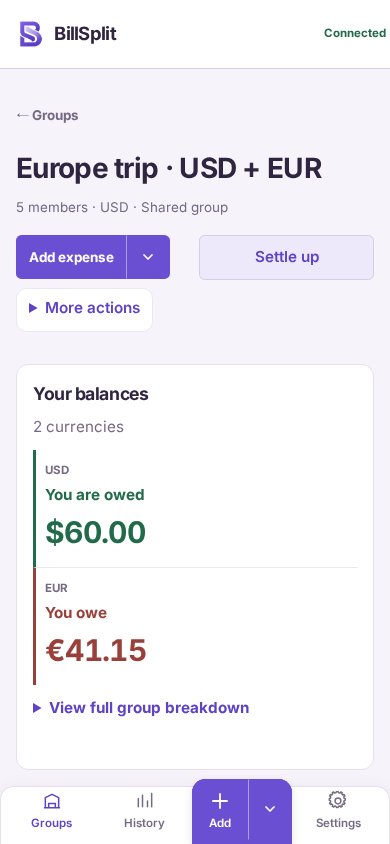
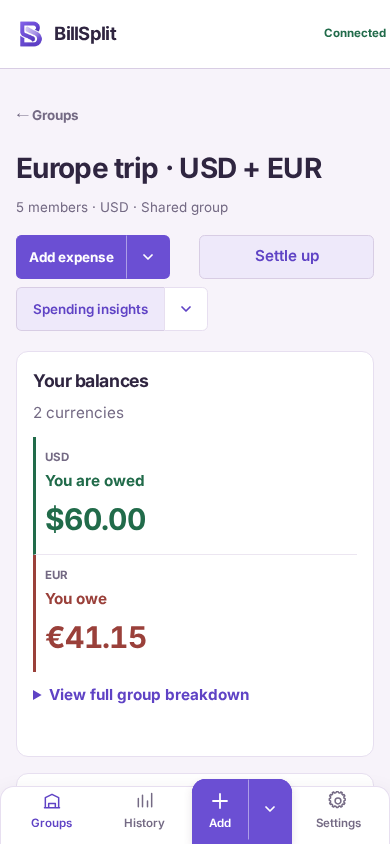
Align group actions and default to spending insights

diff --git a/tests/e2e/insight-people.spec.ts b/tests/e2e/insight-people.spec.ts
@@ -5,27 +5,60 @@ const path = `/activity?group=${groupId}&view=insights&period=all&currency=USD`;
 const person = (personId: string, name: string, shareMinor: number, paidMinor: number) => ({ personId, name, shareMinor, paidMinor });
 const summary = (currency: string, people?: ReturnType<typeof person>[]) => ({ currency, groupSpendMinor: 1000, allocatedSpendMinor: 200, yourShareMinor: 200, youPaidMinor: 600, expenseCount: 1, ...(people ? { people } : {}) });
 
-test('top More actions is button-like, in-flow and follows frequent actions at every audit width', async ({ authenticatedPage: page }) => {
+test('Spending insights split actions stay aligned and in-flow at every audit width', async ({ authenticatedPage: page }) => {
   await page.goto(`/groups/${groupId}`);
   const tools = page.locator('.group-overview-tools');
+  await expect(tools).toHaveAttribute('data-flow-region', 'admin');
+  await expect(tools.locator('summary')).toHaveAccessibleName('More group actions');
+  const insights = page.getByRole('link', { name: 'Spending insights', exact: true });
+  await expect(insights).toHaveAttribute('href', `/activity?group=${groupId}&view=insights&period=all`);
+  const positions = () => page.evaluate(() => {
+    const box = (selector: string) => { const r = document.querySelector(selector)!.getBoundingClientRect(); return { top: r.top, height: r.height, width: r.width, left: r.left, right: r.right }; };
+    return { title: box('.group-overview-header h1'), add: box('.group-overview-header .split-transaction-control'), addMenu: box('.group-overview-header .split-transaction-control__menu'), settle: box('.group-overview-header .expense-heading__actions > .button'), insights: box('.group-insights-control__primary'), menu: box('.group-overview-tools summary'), cards: box('.group-overview-columns') };
+  });
   for (const width of [320, 390, 768, 895, 896, 1440]) {
     await page.setViewportSize({ width, height: 844 });
     await expect(tools).toHaveJSProperty('open', false);
     const geometry = await tools.locator('summary').evaluate((element) => {
       const primary = document.querySelector('.group-overview-header .expense-heading__actions')!;
       const style = getComputedStyle(element);
-      return { height: element.getBoundingClientRect().height, border: parseFloat(style.borderTopWidth), radius: parseFloat(style.borderRadius), followsPrimary: Boolean(primary.compareDocumentPosition(element) & Node.DOCUMENT_POSITION_FOLLOWING) };
+       return { height: element.getBoundingClientRect().height, border: parseFloat(style.borderTopWidth), radius: parseFloat(style.borderTopRightRadius), followsPrimary: Boolean(primary.compareDocumentPosition(element) & Node.DOCUMENT_POSITION_FOLLOWING) };
     });
     expect(geometry.height).toBeGreaterThanOrEqual(44);
     expect(geometry.border).toBeGreaterThan(0);
     expect(geometry.radius).toBeGreaterThan(0);
     expect(geometry.followsPrimary).toBe(true);
-    await tools.locator('summary').click();
-    for (const name of ['View spending insights', 'Group history', 'Group settings']) await expect(tools.getByRole('link', { name, exact: true })).toBeVisible();
+    const closed = await positions();
+    expect(closed.menu.width).toBe(closed.addMenu.width);
+    for (const control of [closed.add, closed.addMenu, closed.settle, closed.insights, closed.menu]) expect(control.height).toBe(44);
+    expect(closed.menu.top).toBe(closed.insights.top);
+    expect(closed.settle.top).toBe(closed.add.top);
+    if (Math.abs(closed.insights.top - closed.add.top) < 1) expect(closed.menu.top).toBe(closed.addMenu.top);
+    await tools.locator('summary').focus();
+    await expect(tools.locator('summary')).toBeFocused();
+    expect(await tools.locator('summary').evaluate((element) => getComputedStyle(element).outlineStyle)).not.toBe('none');
+    await page.keyboard.press('Enter');
+    for (const name of ['Group history', 'Group settings']) await expect(tools.getByRole('link', { name, exact: true })).toBeVisible();
+    await expect(tools.getByRole('link', { name: /insights/i })).toHaveCount(0);
+    const opened = await positions();
+    for (const key of ['title', 'add', 'settle', 'insights', 'menu'] as const) expect(opened[key]).toEqual(closed[key]);
+    expect(opened.cards.top).toBeGreaterThan(closed.cards.top);
+    const panel = await tools.locator('nav').boundingBox();
+    expect(panel!.x).toBeCloseTo(closed.insights.left, 0);
+    expect(panel!.width).toBeCloseTo(closed.menu.right - closed.insights.left, 0);
+    expect(panel!.y).toBeGreaterThanOrEqual(closed.menu.top + closed.menu.height);
     await expect(page.getByRole('link', { name: 'Record credit', exact: true })).toHaveCount(0);
     expect(await page.evaluate(() => document.documentElement.scrollWidth <= document.documentElement.clientWidth)).toBe(true);
-    await tools.locator('summary').click();
+    await page.keyboard.press('Space');
+    await expect(tools).toHaveJSProperty('open', false);
+    await expect(tools.locator('summary')).toBeFocused();
   }
+  await page.setViewportSize({ width: 320, height: 844 });
+  await page.locator('.group-overview-header h1').evaluate((element) => { element.textContent = 'GroupWithAnExtremelyLongUnbrokenName'.repeat(3); });
+  await tools.locator('summary').click();
+  await tools.locator('nav a').first().evaluate((element) => { element.textContent = 'GroupHistoryWithAnExtremelyLongUnbrokenLabel'.repeat(3); });
+  expect(await page.evaluate(() => document.documentElement.scrollWidth <= document.documentElement.clientWidth)).toBe(true);
+  expect(await page.locator('.group-insights-control').evaluate((element) => [...element.querySelectorAll<HTMLElement>('a, nav')].every((child) => child.scrollWidth <= child.clientWidth + 1))).toBe(true);
 });
 
 test('person totals follow currency and period; ties, zero, old cache and empty are distinct', async ({ authenticatedPage: page }) => {
@@ -79,8 +112,7 @@ test('cached person totals survive refresh errors and offline; long names and la
   await page.clock.install();
   await page.clock.fastForward(31_000);
   await page.getByRole('link', { name: '← Back to group', exact: true }).click();
-  await page.locator('.group-overview-tools summary').click();
-  await page.getByRole('link', { name: 'View spending insights', exact: true }).click();
+  await page.getByRole('link', { name: 'Spending insights', exact: true }).click();
   await expect.poll(() => failedReads).toBeGreaterThan(0);
   await expect(people).toContainText('2,345,678,901,234.56');
   await expect(page.getByText('Showing cached selected-period summary; it may be out of date.', { exact: false })).toBeVisible();

diff --git a/src/app/App.tsx b/src/app/App.tsx
@@ -562,7 +562,7 @@ function GroupOverview() {
   const groupContext = group.kind === 'peer' || (group.kind === undefined && memberCount === 2) ? 'Friend group' : 'Shared group';
   return <Layout>
     <Link to="/" className="back">← Groups</Link>
-      <PageHeader className="page-title group-overview-header" title={displayName} description={<span className="group-overview-meta">{memberCount} {memberCount === 1 ? 'member' : 'members'} · {group.currency} · {groupContext}</span>} actions={<div className="group-heading-actions"><ActionGroup className="expense-heading__actions" region="frequent"><SplitTransactionControl groupId={id} online={online && !offline} primaryAriaLabel="+ Add expense" /><Link className="button button--secondary" to={`/groups/${id}/settle`}>Settle up</Link></ActionGroup><Disclosure className="group-overview-tools" summary="More actions" region="admin"><nav className="group-tools" aria-label="More group actions"><Link className="group-tool-row" to={`/activity?group=${encodeURIComponent(id)}&view=insights&period=all`}>View spending insights</Link><Link className="group-tool-row" to={`/activity?group=${encodeURIComponent(id)}&view=changes`}>Group history</Link><Link className="group-tool-row" to={`/groups/${id}/manage#settings`}>Group settings</Link></nav></Disclosure></div>} />
+      <PageHeader className="page-title group-overview-header" title={displayName} description={<span className="group-overview-meta">{memberCount} {memberCount === 1 ? 'member' : 'members'} · {group.currency} · {groupContext}</span>} actions={<div className="group-heading-actions"><ActionGroup className="expense-heading__actions" region="frequent"><SplitTransactionControl groupId={id} online={online && !offline} primaryAriaLabel="+ Add expense" /><Link className="button button--secondary" to={`/groups/${id}/settle`}>Settle up</Link></ActionGroup><div className="group-insights-control"><Link className="button button--secondary group-insights-control__primary" to={`/activity?group=${encodeURIComponent(id)}&view=insights&period=all`}>Spending insights</Link><details className="group-overview-tools" data-flow-region="admin"><summary aria-label="More group actions"><svg aria-hidden="true" width="16" height="16" viewBox="0 0 16 16" fill="none"><path d="m4 6 4 4 4-4" stroke="currentColor" strokeWidth="1.75" strokeLinecap="round" strokeLinejoin="round" /></svg></summary><nav className="group-tools" aria-label="More group actions"><Link className="group-tool-row" to={`/activity?group=${encodeURIComponent(id)}&view=changes`}>Group history</Link><Link className="group-tool-row" to={`/groups/${id}/manage#settings`}>Group settings</Link></nav></details></div></div>} />
     {offline ? <ConnectionBanner detail="showing cached group data. New expenses can be captured; history, schedules, and management need a connection." /> : null}
     {me.error ? <CachedIdentityNotice resource={me} id="group-identity-error" /> : null}
     {groupResource.error ? <ResourceNotice resource={groupResource} label="group" retry={retryFor(resourceKeys.group(userId, id), me.data?.id)} /> : null}

diff --git a/tests/e2e/audit.spec.ts b/tests/e2e/audit.spec.ts
@@ -1105,8 +1105,8 @@ test('browser audit matrix captures validated routes, geometry, and full-page sc
                const tools = page.locator('.group-overview-tools');
                await tools.locator('summary').click();
                await expect(tools).toHaveJSProperty('open', true);
-                for (const linkName of ['View spending insights', 'Group history', 'Group settings']) await expect(page.getByRole('link', { name: linkName, exact: true })).toBeVisible();
-               const toolsScenario: Scenario = { ...scenario, name: 'group-overview-more-actions-open', context: 'GroupOverview / More group actions disclosure open', expected: { ...scenario.expected, content: 'View spending insights' } };
+                 for (const linkName of ['Spending insights', 'Group history', 'Group settings']) await expect(page.getByRole('link', { name: linkName, exact: true })).toBeVisible();
+                const toolsScenario: Scenario = { ...scenario, name: 'group-overview-more-actions-open', context: 'GroupOverview / More group actions disclosure open', expected: { ...scenario.expected, content: 'Group history' } };
                await assertRendered(page, toolsScenario, observations, viewport);
                coverage.push({ scenarioName: toolsScenario.name, authState: authState(toolsScenario.auth), route: `${scenario.path} [More group actions open]`, viewport, context: toolsScenario.context, rendered: true, apiSuccesses: observations.filter((observation) => observation.status >= 200 && observation.status < 300).map((observation) => observation.path) });
                await reportForPage(page, toolsScenario, `${scenario.path} [More group actions open]`, viewport, artifactDirectory, findings, failures);
@@ -1517,7 +1517,7 @@ test('group overview keeps storyboard modules flat, ordered, and responsive', as
     else expect(geometry.columns).toBe(2);
 
     await page.locator('.group-overview-tools summary').click();
-    await expect(page.getByRole('link', { name: 'View spending insights' })).toBeVisible();
+    await expect(page.getByRole('link', { name: 'Spending insights', exact: true })).toBeVisible();
     await expect(page.getByRole('link', { name: 'Record credit' })).toHaveCount(0);
     await expect(page.getByRole('link', { name: 'Group history' })).toBeVisible();
     await expect(page.getByRole('link', { name: 'Group settings' })).toBeVisible();

diff --git a/src/app/theme/group-overview.css b/src/app/theme/group-overview.css
@@ -6,7 +6,7 @@
 }
 
 .group-overview-header {
-  align-items: flex-end;
+  align-items: flex-start;
 }
 
 .group-overview-header h1 {
@@ -213,24 +213,64 @@
 .group-overview-tools {
   margin: 0;
   min-width: 0;
+  /* Span the joined control so the native in-flow panel gets its full width.
+     The default link occupies the left cell over the summary's empty space. */
+  grid-column: 1 / -1;
+  grid-row: 1;
 }
 
 .group-heading-actions { display: flex; flex-wrap: wrap; align-items: start; gap: var(--space-2); min-width: 0; }
 .group-overview-tools > summary {
+  display: flex;
+  align-items: center;
+  justify-content: center;
+  width: var(--control-min-height);
+  margin-left: auto;
   min-height: var(--control-min-height);
-  padding: var(--space-2) var(--space-3);
-  border: 1px solid var(--color-divider);
-  border-radius: var(--radius-md);
+  padding: 0;
+  border: 1px solid var(--color-border);
+  border-radius: 0 var(--radius-control) var(--radius-control) 0;
   background: var(--color-surface);
   cursor: pointer;
   color: var(--color-primary-hover);
   font-weight: 600;
+  list-style: none;
 }
+
+.group-overview-tools > summary::-webkit-details-marker { display: none; }
+.group-overview-tools > summary:focus-visible { outline: 2px solid var(--color-primary); outline-offset: 2px; }
+
+.group-insights-control {
+  display: grid;
+  grid-template-columns: minmax(0, 1fr) var(--control-min-height);
+  min-width: 0;
+  max-width: 100%;
+}
+
+.group-insights-control__primary {
+  grid-column: 1;
+  grid-row: 1;
+  align-self: start;
+  z-index: 1;
+  min-width: 0;
+  min-height: var(--control-min-height);
+  border-right: 0;
+  border-radius: var(--radius-control) 0 0 var(--radius-control);
+  font-size: var(--text-sm);
+  line-height: 1.2;
+  overflow-wrap: anywhere;
+}
+
+.group-overview-header .expense-heading__actions { align-items: flex-start; }
+.group-overview-header .expense-heading__actions > .button { min-height: var(--control-min-height); line-height: 1.2; }
 
 .group-overview-tools .group-tools {
   display: grid;
+  min-width: 0;
   margin: 0;
 }
+
+.group-overview-tools:not([open]) .group-tools { display: none; }
 
 .group-tool-row {
   display: flex;
@@ -240,6 +280,7 @@
   color: var(--color-primary-hover);
   padding: var(--space-2) 0;
   text-decoration: none;
+  overflow-wrap: anywhere;
 }
 
 .group-tool-row:last-child {

diff --git a/tests/e2e/group-reference-screenshots.spec.ts b/tests/e2e/group-reference-screenshots.spec.ts
@@ -33,10 +33,11 @@ for (const [device, width, height] of [['mobile', 390, 844], ['desktop', 1440, 9
     }
     await capture(page, testInfo, `warm-ledger-${device}`);
     await tools.locator('summary').click();
-    for (const name of ['View spending insights', 'Group history', 'Group settings']) {
+    for (const name of ['Group history', 'Group settings']) {
       await expect(tools.getByRole('link', { name, exact: true })).toBeVisible();
     }
     await capture(page, testInfo, `group-overview-more-actions-open-${device}`);
+    if (process.env.GROUP_SCREENSHOTS_OVERVIEW_ONLY === '1') return;
 
     await tools.getByRole('link', { name: 'Group history', exact: true }).click();
     const back = page.getByRole('link', { name: '← Back to group', exact: true });

diff --git a/src/app/theme/theme.test.ts b/src/app/theme/theme.test.ts
@@ -224,7 +224,8 @@ describe('Warm Ledger visual system', () => {
     expect(appSource).toContain('<section className="activity-filter reading-width"');
     expect(appSource).toContain('aria-labelledby="insight-summary-heading"');
     expect(appSource).toContain('aria-labelledby="balances-heading"');
-    expect(appSource).toContain('summary="More actions"');
+    expect(appSource).toContain('<summary aria-label="More group actions">');
+    expect(appSource).toContain('group-insights-control__primary');
     expect(auditSource).toContain('const surfaceRootSelector =');
     for (const width of [320, 390, 768, 895, 896, 1440]) expect(auditSource).toContain(`{ width: ${width},`);
     expect(auditSource).toContain('full canonical responsive coverage');

diff --git a/docs/responsive-audit-matrix.md b/docs/responsive-audit-matrix.md
@@ -2,9 +2,9 @@
 
 ## Group history, person insights, and top actions
 
-Focused browser coverage in `tests/e2e/insight-people.spec.ts` verifies button-like native More actions closed/open, primary-before-admin order, touch height and no page overflow at all six audit widths. At 320px it verifies distinct exact share/paid amounts, USD/EUR selection, positive ties, all-zero/no winner, custom-period selection, empty suppression, compatibility with responses missing people, and cached totals retained after a failed refresh and while offline. A long unbroken historical name and large amounts are checked for both page overflow and person-row clipping. Cached persistence here is same-session resource-cache persistence, not a cold offline reload test.
+Focused browser coverage in `tests/e2e/insight-people.spec.ts` verifies the Spending insights default destination and native More group actions chevron closed/open, Enter/Space activation and visible keyboard focus, primary-before-admin order, matching 44px control/chevron geometry, stable title/action positions and in-flow panel containment at all six audit widths. At 320px it verifies distinct exact share/paid amounts, USD/EUR selection, positive ties, all-zero/no winner, custom-period selection, empty suppression, compatibility with responses missing people, and cached totals retained after a failed refresh and while offline. A long unbroken historical name and large amounts are checked for both page overflow and person-row clipping. Cached persistence here is same-session resource-cache persistence, not a cold offline reload test.
 
-At **320, 390, 768, 895, 896, 1440px**, audit the overview with **More actions closed and open**: Add expense and Settle up precede the separate admin region; the native in-flow disclosure contains spending insights, history, and settings without duplicate Record credit. Links and summary retain 44px touch targets and wrap without horizontal overflow.
+At **320, 390, 768, 895, 896, 1440px**, audit the overview with **More group actions closed and open**: Add expense and Settle up precede the Spending insights default link and separate admin chevron; the native in-flow disclosure contains only history and settings without duplicating the default action or Record credit. Links and summary retain 44px touch targets and wrap without horizontal overflow. Opening moves cards down without shifting the title or action tops; the panel spans the entire joined secondary control.
 
 At the same widths, audit group Changes, Transactions, and Insights: the authorized selected group's Back to group link precedes filters, updates on selection, and disappears for All groups or unavailable groups. Cached authorized group data retains this context. Person insights show allocated share and paid independently for the selected summary period/currency, including tied highest payers and no highest payer for all-zero data. Names and amounts wrap at narrow widths.
 
@@ -52,6 +52,8 @@ Europe trip group without API mocks. Regenerate only these group references:
 PLAYWRIGHT_BROWSERS_PATH=/ms-playwright UPDATE_GROUP_SCREENSHOTS=1 npm run test:e2e:local -- tests/e2e/group-reference-screenshots.spec.ts --project=chromium --workers=1
 ```
 
+To refresh only the five overview references without history/insight churn, prefix the command with `GROUP_SCREENSHOTS_OVERVIEW_ONLY=1`.
+
 Without the opt-in, captures are test attachments and do not overwrite tracked
 images. Fonts are ready and screenshot animations disabled. Mobile uses 390×844
 and desktop 1440×900 viewports; references are full-page except the explicitly
@@ -61,7 +63,7 @@ for full-page captures, not the viewport reference.
 - Closed overview: [mobile](screenshots/warm-ledger-mobile.png),
   [desktop](screenshots/warm-ledger-desktop.png), and
   [mobile viewport with fixed navigation](screenshots/group-overview-mobile-viewport.png).
-- Top More actions expanded: [mobile](screenshots/group-overview-more-actions-open-mobile.png)
+- More group actions chevron expanded beside Spending insights: [mobile](screenshots/group-overview-more-actions-open-mobile.png)
   and [desktop](screenshots/group-overview-more-actions-open-desktop.png).
 - Group Changes with Back to group: [mobile](screenshots/warm-ledger-history-mobile.png)
   and [desktop](screenshots/warm-ledger-history-desktop.png).
@@ -275,12 +277,12 @@ captures are distinct group-overview, refund-form, and focused-helper states.
 | Credit detail, deleted/restore | Restore is the only available mutation and is disabled offline | Tombstone copy remains visible | Tombstone copy remains visible | Restore remains a clear recovery action | Restore and error states remain readable without modal-only context | Restore and error states remain readable without modal-only context |
 | Group home / invitations | Financial status leads each group card; invitation actions remain reachable; empty-state actions stack without overlap; spending snapshot stays borderless | Empty and populated states retain separate, touch-sized creation actions; group cards precede the divider-separated spending snapshot | Group cards use a denser two-column grid; snapshot currency rows remain aligned | Check group-card-to-snapshot boundary without a second painted snapshot surface | Group cards align amount columns and participant metadata; snapshot remains borderless | Group cards align amount columns and participant metadata; snapshot remains borderless |
 | Home / compact insight, populated | Spending snapshot is a transparent, single-column ledger with divider rows | Same flattened metric reading order and no metric-card paint | Currency rows remain aligned without an enclosing card | Verify the compact snapshot remains flat at the breakpoint | Compact insight remains a secondary, borderless module after group cards | Compact insight remains a secondary, borderless module after group cards |
-| Group overview | Add expense and Settle up precede top More actions; four macro-cards follow in DOM order: balances, transactions, schedules, people | Same order with 44px controls, flat internal rows, and native lists | Single-column financial reading order; overview transaction rows stay concise | Verify no premature column reflow and no nested painted rows | Top actions precede transparent structural columns containing balances→transactions and schedules→people | Two-column columns are centered within the 68rem route and avoid implicit-grid whitespace |
+| Group overview | Add expense and Settle up precede the Spending insights default link and More group actions chevron; four macro-cards follow in DOM order: balances, transactions, schedules, people | Same order with 44px controls, flat internal rows, and native lists | Single-column financial reading order; overview transaction rows stay concise | Verify no premature column reflow and no nested painted rows | Top actions precede transparent structural columns containing balances→transactions and schedules→people | Two-column columns are centered within the 68rem route and avoid implicit-grid whitespace |
 | Group overview / balances loaded | Balance macro-card uses transparent divider-separated rows; sage/coral state is carried by amount text and a restrained accent edge, never a full-row band | Amounts remain prominent at roughly 30–32px without row borders or radii | Balance disclosure remains available and readable | Verify state accents do not become nested cards at the boundary | Main column begins with the balance macro-card | Main-column balance card aligns with the recent-transactions card |
 | Group overview / balance loading, error, or offline variants | Focused browser fixture covers the uncached card at 320px | Focused browser fixture covers the uncached card at 390px | Not separately exercised | Not separately exercised | Focused browser fixture covers the uncached card at 896px | Not separately exercised |
 | Group overview / fully cached reload | Focused browser fixture reloads cached group, balances, and transactions offline; schedules explicitly remain uncached | Not separately exercised | Not separately exercised | Not separately exercised | Not separately exercised | Not separately exercised |
 | Group overview / schedules and people | Populated preview and up to four person rows are visible; uncached-offline copy is announced after reload | Preview rows remain flat and overflow count is explicit; focused loading/error/empty/uncached-offline fixtures run here | Verify schedule actions remain in the disclosure, not the preview | Verify the disclosure remains keyboard and touch usable | Context column places schedules above people without changing focus order | Context cards align with the main column while preserving the mobile DOM order |
-| Group overview / secondary actions | Top More actions is collapsed after primary actions; opens in flow | Disclosure exposes insights, history, and settings, with no duplicate Record credit | Verify expanded links wrap without competing with modules | Verify summary target and link rows remain at least 44px | Disclosure stays above both structural columns and after primary actions | Secondary actions remain progressively disclosed and visually quiet |
+| Group overview / secondary actions | Spending insights is the default link after primary actions; the adjacent More group actions chevron is collapsed and opens in flow | Disclosure exposes only history and settings, with no duplicate Spending insights or Record credit | Verify expanded links wrap without competing with modules | Verify chevron summary target and link rows remain at least 44px | Disclosure stays above both structural columns and after primary actions | History and settings remain progressively disclosed and visually quiet beside the Spending insights default |
 | Expense and schedule forms | Amount hero, split controls, and payer sheet fit without zoom | Payer sheet is bottom anchored and targets remain 44px | Verify form grouping and recurring preview | Verify 895/896 transition without focus loss | Payer dialog is centered; amount remains first | Payer dialog and schedule preview remain readable |
 | History and insights | Segmented tabs remain single-line with touch-safe links and contained horizontal overflow when needed; filter disclosure stays in flow; transaction/activity results use divider-separated ledger rows; history and insight outer containers remain flat | Same no-wrap tab treatment; transaction amounts align at row end without painted list containers | Chart/table fallback remains accessible; semantic insight sections remain structural | Verify boundary tab, search behavior, and no painted history/insights ancestor | Desktop rows align like a ledger; filters remain in flow; summary/chart modules are the intentional painted surfaces | Desktop rows align like a ledger; filters remain in flow; summary/chart modules are the intentional painted surfaces |
 | Management/settings | Editorial sections remain single-column; deletion is last and is the only tinted contained region; owner, unlinked, and linked member slots fit without overflow | People/invitations/defaults precede exports and destructive actions; member rows keep identity → optional email/invitation → actions order, with one shared action gap | Verify long names and disabled states | Verify boundary spacing and justified form/admin containment | Compact editorial sections preserve hierarchy without stacked cards; Export → Group settings has one stack-owned divider | Compact editorial sections preserve hierarchy without stacked cards |
@@ -301,7 +303,7 @@ full-width: schedule loading, API-error, empty, and uncached-offline states are
 exercised at 390px, while balance loading, API-error, and uncached-offline
 states are exercised at 320px, 390px, and 896px. The fully cached offline
 reload runs at 320px. Populated overview geometry runs at all six canonical
-widths; top More actions closed/open behavior runs at all six widths in
+widths; Spending insights default and More group actions chevron closed/open behavior runs at all six widths in
 `insight-people.spec.ts`, with loaded references at 390 and 1440px above.
 View all schedules screenshots/disclosure geometry run at **320, 895, 896,
 and 1440px**.
